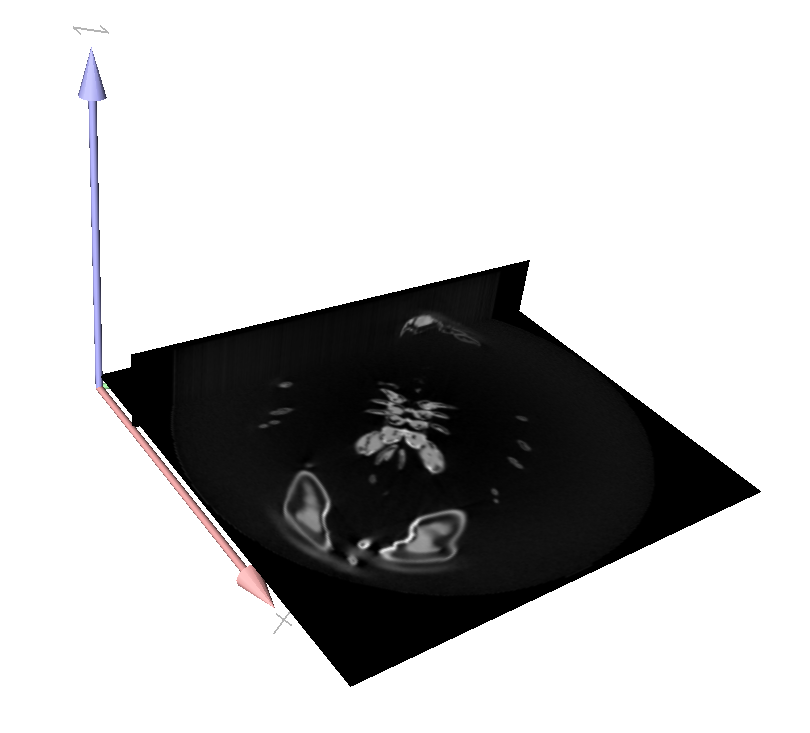
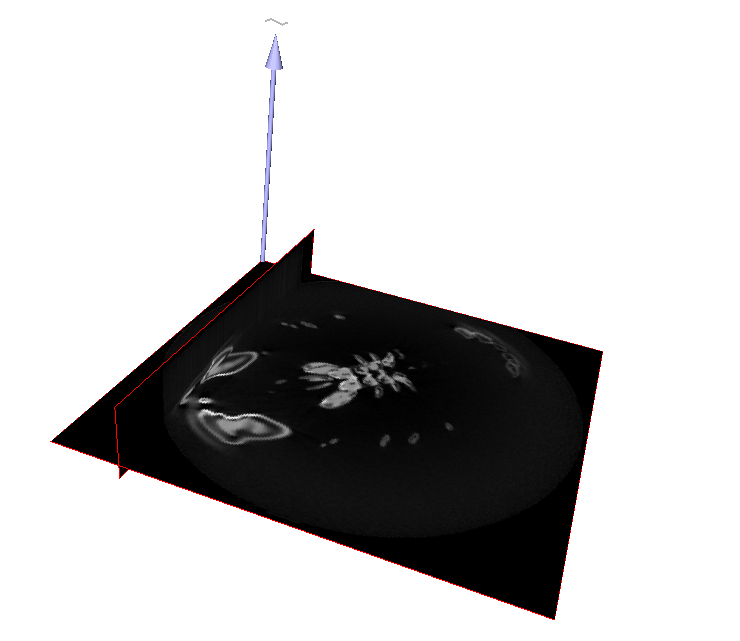
doc edits with example

diff --git a/examples/io/viewers/viewer3D-8-2Dimages.cpp b/examples/io/viewers/viewer3D-8-2Dimages.cpp
@@ -87,7 +87,7 @@ int main( int argc, char** argv )
   //! [ExampleViewer3D2DImagesExtractImages]
 
  //! [ExampleViewer3D2DChangeMode]
-  viewer << SetMode3D(aSliceImageZ.className(), "BoundingBox");
+  viewer << SetMode3D(aSliceImageZ.className(), "InterGrid");
   viewer << Viewer3D::updateDisplay;
   //! [ExampleViewer3D2DChangeMode]
 
